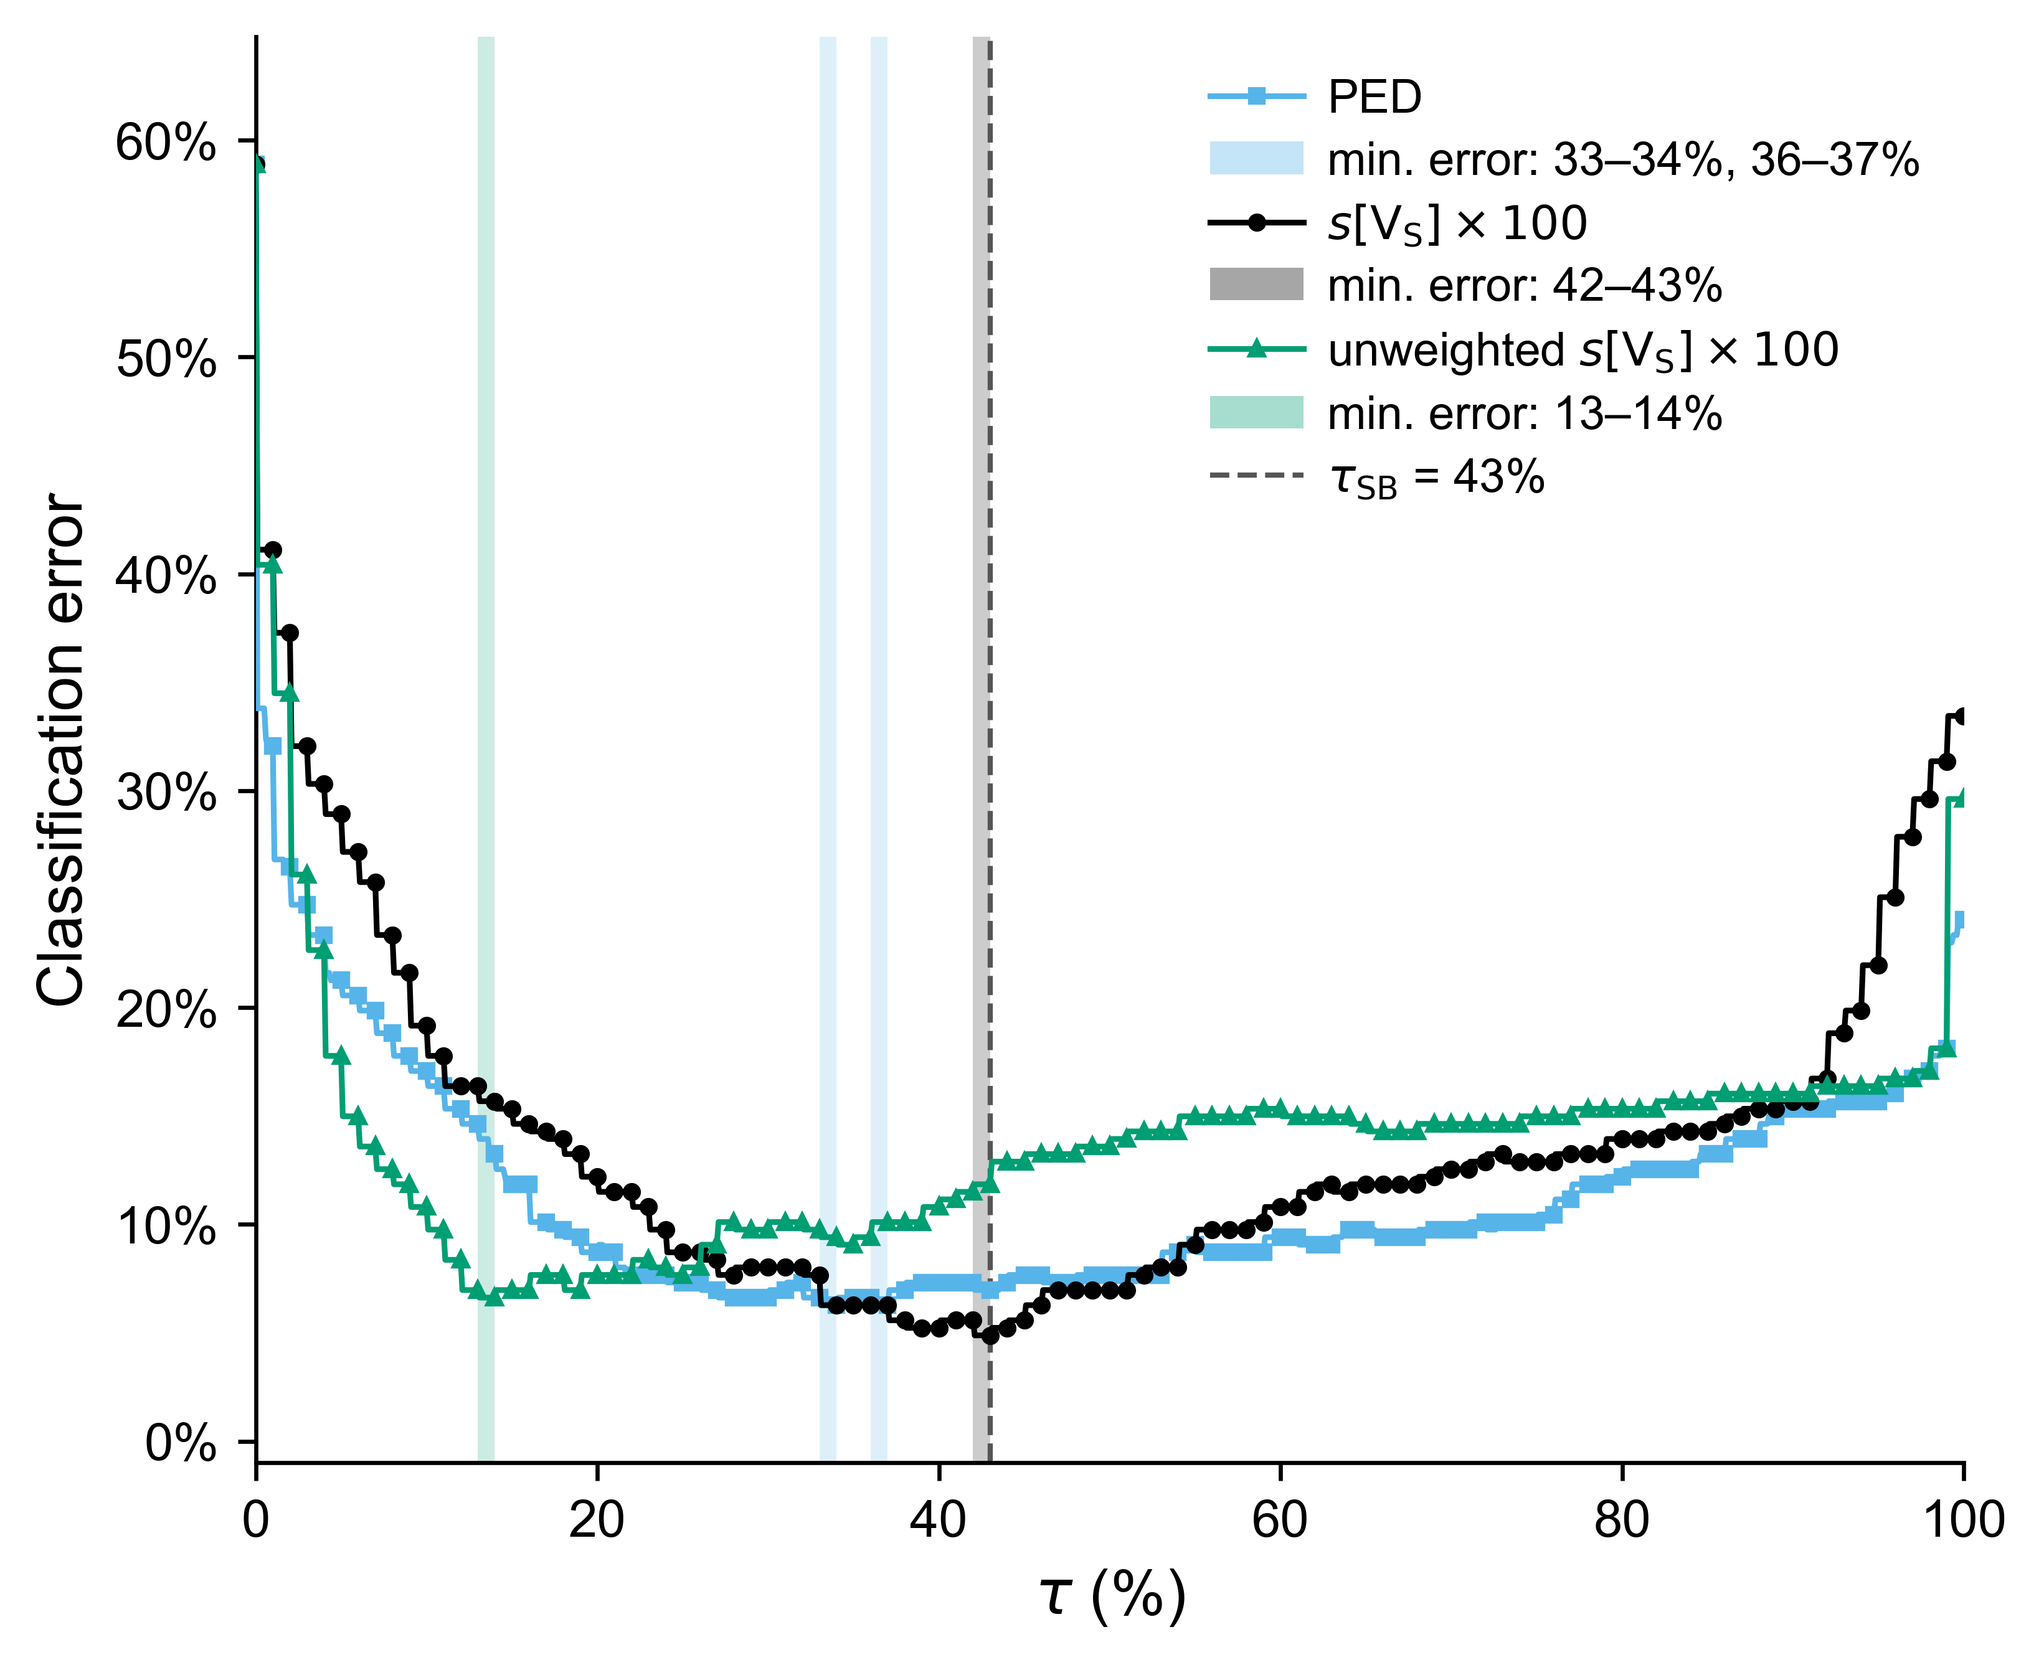
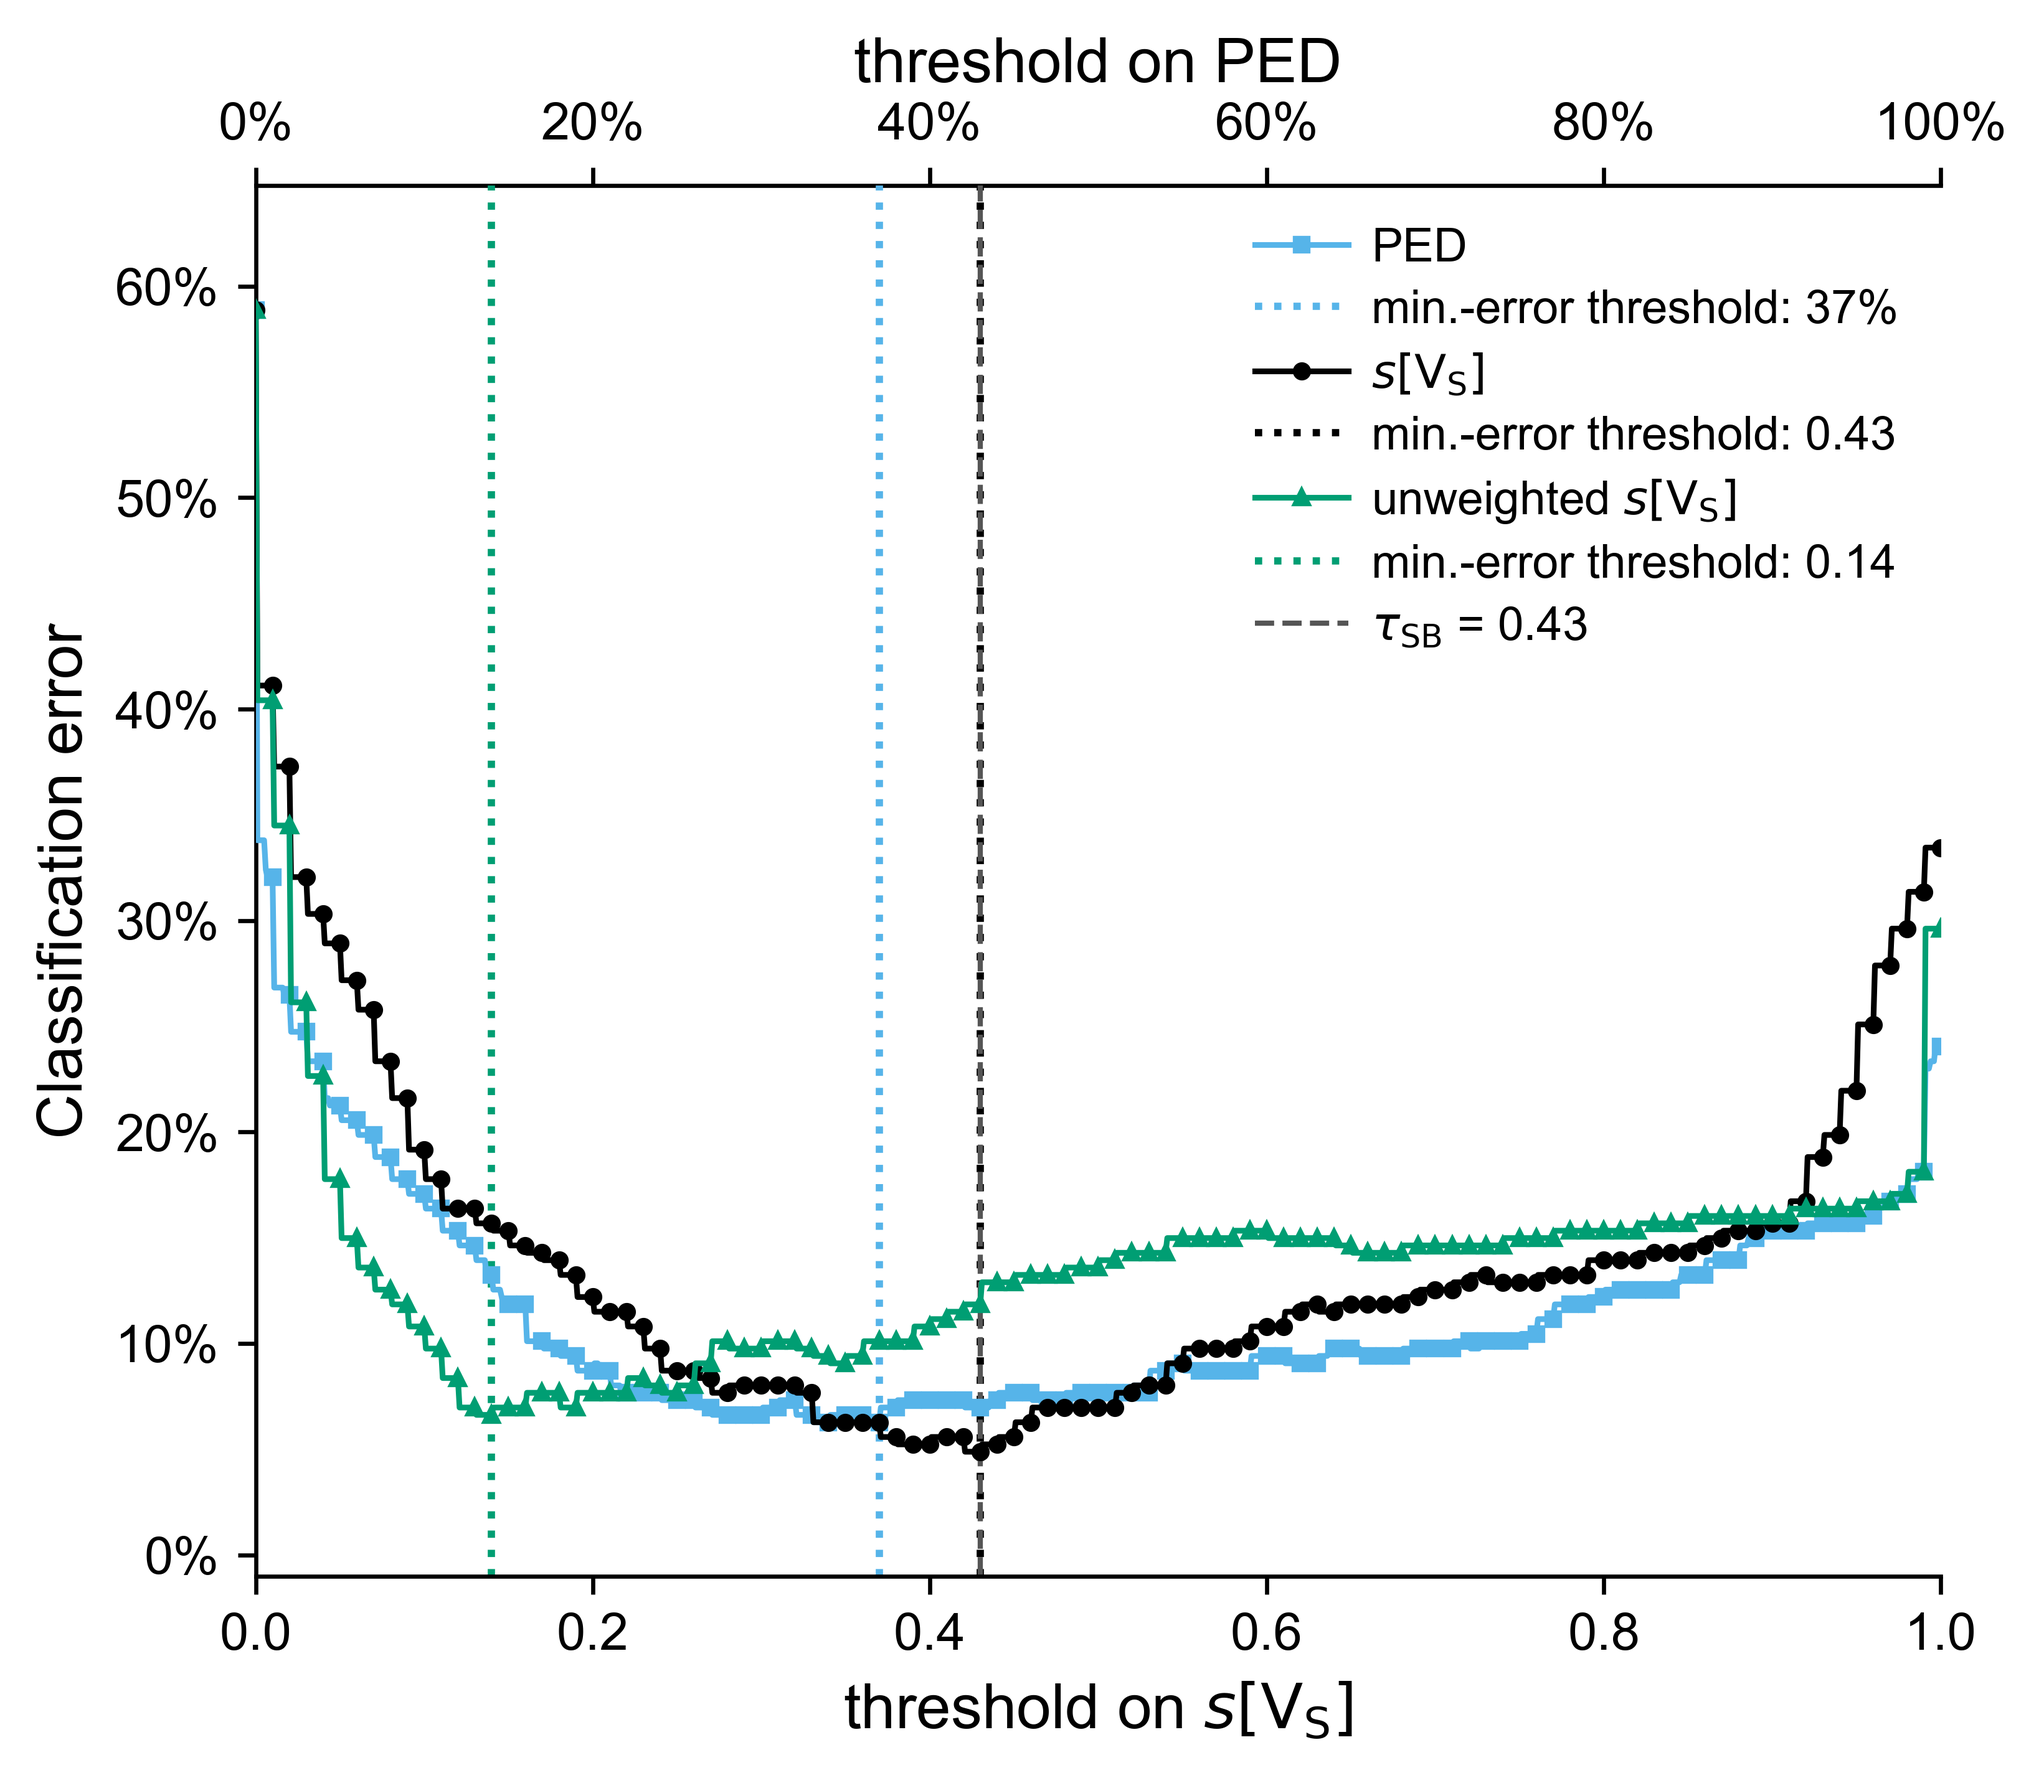
fig_sensitivity_stretch_predictors: one min-error threshold per predictor
Replace the shaded tied-minimum plateaus with one threshold per
predictor, chosen by the tau_SB rule: the midpoint of the minimum-error
plateau, rounded half up to 0.01 (scores) / 1% (PED); when the minimum
ties on disjoint plateaus, the one whose midpoint is nearest 0.50. PED
37% (plateaus 33-34%, 36-37%), s[V_S] 0.43, unweighted s[V_S] 0.14.

Notation: scores as 0.xx, PED as xx%. The bottom axis is the s[V_S]
threshold (0-1), a secondary top axis the PED threshold (%); the 'x100'
labels are gone and tau_SB reads 0.43. Summary gains chosen_plateau_*
and threshold_pct_*. Sweep CSV unchanged.

diff --git a/src/figures.py b/src/figures.py
@@ -2945,46 +2945,60 @@ def plot_stretch_predictor_sensitivity(
 
     # Minimum-error plateaus: every tau tied at the minimum, on a 0.1 % grid so each
     # plateau is resolved as the interval between neighbouring scores (the error is a
-    # staircase constant on (v_k, v_k+1]); a 1 % grid misplaces the ends. All tied runs
-    # are kept (PED has two disjoint ones). Curves are drawn on the same fine grid.
+    # staircase constant on (v_k, v_k+1]); a 1 % grid misplaces the ends. Curves are drawn
+    # on the same fine grid. ONE threshold per predictor, by the tau_SB rule: the midpoint
+    # of the minimum-error plateau, rounded half up to the predictor's precision (scores
+    # 0.01, PED 1 %); when the minimum is tied on several disjoint plateaus (PED), the one
+    # whose midpoint is nearest 0.50 (50 %). Notation (user): scores 0.xx, PED xx %.
     step = 0.1
     fine = np.round(np.arange(0.0, 100.0 + step / 2, step), 1)
     series = (
         ("PED", ped_df["PED_Stretch_pct"], COLORS["sens_accuracy"], "s", "PED"),
-        ("weighted_sVS", wt_df["V_Stretch_pct"], COLORS["sens_change"], "o",
-         r"$s[\mathrm{V_S}]\times100$"),
+        ("weighted_sVS", wt_df["V_Stretch_pct"], COLORS["sens_change"], "o", r"$s[\mathrm{V_S}]$"),
         ("unweighted_sVS", unw_df["V_Stretch_pct"], COLORS["sens_single_centre"], "^",
-         r"unweighted $s[\mathrm{V_S}]\times100$"),
+         r"unweighted $s[\mathrm{V_S}]$"),
     )
-    tau_sb_pct = 100 * Thresholds.calibrated().tau_SB
+    tau_sb = Thresholds.calibrated().tau_SB
+    tau_sb_pct = 100 * tau_sb
+    # threshold in % -> label text in the predictor's own notation
+    fmt_thr = {"PED": lambda p: f"{p:.0f}%", "weighted_sVS": lambda p: f"{p / 100:.2f}",
+               "unweighted_sVS": lambda p: f"{p / 100:.2f}"}
 
-    fig, ax = plt.subplots(figsize=(5.6, 4.6))
-    plateaus, min_err, line_h, band_h = {}, {}, [], []
+    fig, ax = plt.subplots(figsize=(5.6, 4.9))
+    plateaus, chosen, thr_pct, min_err, line_h, thr_h = {}, {}, {}, {}, [], []
     for key, vals, col, mk, name in series:
         df_ = {"PED": ped_df, "weighted_sVS": wt_df, "unweighted_sVS": unw_df}[key]
         e = _sweep_error_vs_threshold(vals.to_numpy(float), df_["ref_label"], fine)["error"].to_numpy()
         tied = fine[e <= e.min() + 1e-12]
         runs = np.split(tied, np.flatnonzero(np.diff(tied) > step * 1.5) + 1)
         ivs = [(round(float(r[0]) - step, 1), float(r[-1])) for r in runs]   # tau in (lo, hi]
-        plateaus[key], min_err[key] = ivs, float(e.min())
-        for lo, hi in ivs:
-            ax.axvspan(lo, hi, color=col, alpha=0.2, lw=0, zorder=1)
+        lo, hi = min(ivs, key=lambda iv: (abs((iv[0] + iv[1]) / 2 - 50.0), iv[0]))
+        # midpoint rounded half up to 1 % (= 0.01 on the score scale), as for tau_SB
+        thr = float(np.floor(round((lo + hi) / 2, 6) + 0.5))
+        plateaus[key], chosen[key], thr_pct[key], min_err[key] = ivs, (lo, hi), thr, float(e.min())
         line_h.append(ax.plot(fine, e, color=col, marker=mk, markersize=2.5, markevery=10,
                               lw=1.1, zorder=3, label=name)[0])
-        band_h.append(Patch(facecolor=col, alpha=0.35, lw=0,
-                            label="min. error: " + ", ".join(f"{lo:g}–{hi:g}%" for lo, hi in ivs)))
+        thr_h.append(ax.axvline(thr, color=col, ls=":", lw=1.4, zorder=2,
+                                label="min.-error threshold: " + fmt_thr[key](thr)))
     tau_h = ax.axvline(tau_sb_pct, color=COLORS["threshold"], ls="--", lw=1.0, zorder=2,
-                       label=r"$\tau_\mathrm{SB}$ = " + f"{tau_sb_pct:g}%")
+                       label=r"$\tau_\mathrm{SB}$ = " + f"{tau_sb:.2f}")
 
-    ax.set_xlabel(r"$\tau$ (%)")
-    ax.set_ylabel("Classification error")
+    # one physical axis, two notations: bottom = score threshold (0.xx), top = PED (%)
     ax.set_xlim(0, 100)
+    ax.xaxis.set_major_locator(mtick.MultipleLocator(20))
+    ax.xaxis.set_major_formatter(mtick.FuncFormatter(lambda x, _: f"{x / 100:.1f}"))
+    ax.set_xlabel(r"threshold on $s[\mathrm{V_S}]$")
+    top = ax.secondary_xaxis("top")
+    top.xaxis.set_major_locator(mtick.MultipleLocator(20))
+    top.xaxis.set_major_formatter(mtick.FuncFormatter(lambda x, _: f"{x:.0f}%"))
+    top.set_xlabel("threshold on PED")
+    ax.set_ylabel("Classification error")
     ax.yaxis.set_major_formatter(mtick.PercentFormatter(xmax=1))
     error_cols = ["error_PED", "error_weighted_sVS", "error_unweighted_sVS"]
     y_max = max(0.05, float(sweep[error_cols].max().max()) * 1.1)
     ax.set_ylim(-0.01, y_max)
-    # each curve followed by its own plateau patch, then the adopted threshold
-    hand = [h for pair in zip(line_h, band_h) for h in pair] + [tau_h]
+    # each curve followed by its own selected threshold, then the adopted tau_SB
+    hand = [h for pair in zip(line_h, thr_h) for h in pair] + [tau_h]
     ax.legend(handles=hand, loc="upper right", frameon=False, fontsize=LEGEND_FONTSIZE,
               handletextpad=0.5, labelspacing=0.4)
 
@@ -3014,12 +3028,11 @@ def plot_stretch_predictor_sensitivity(
         "error_unweighted_sVS_range": (float(sweep["error_unweighted_sVS"].min()),
                                         float(sweep["error_unweighted_sVS"].max())),
         "tau_SB_pct": tau_sb_pct,
-        # minimum-error plateaus, each a list of (lo, hi] intervals in % (0.1 % grid)
-        "plateaus_PED": plateaus["PED"], "min_error_PED": min_err["PED"],
-        "plateaus_weighted_sVS": plateaus["weighted_sVS"],
-        "min_error_weighted_sVS": min_err["weighted_sVS"],
-        "plateaus_unweighted_sVS": plateaus["unweighted_sVS"],
-        "min_error_unweighted_sVS": min_err["unweighted_sVS"],
+        # minimum-error plateaus, each a list of (lo, hi] intervals in % (0.1 % grid); the
+        # one nearest 50 % and its rounded midpoint = the threshold drawn (in %)
+        **{f"{k}_{key}": d[key] for key in ("PED", "weighted_sVS", "unweighted_sVS")
+           for k, d in (("plateaus", plateaus), ("chosen_plateau", chosen),
+                        ("threshold_pct", thr_pct), ("min_error", min_err))},
     }
     return summary
 
